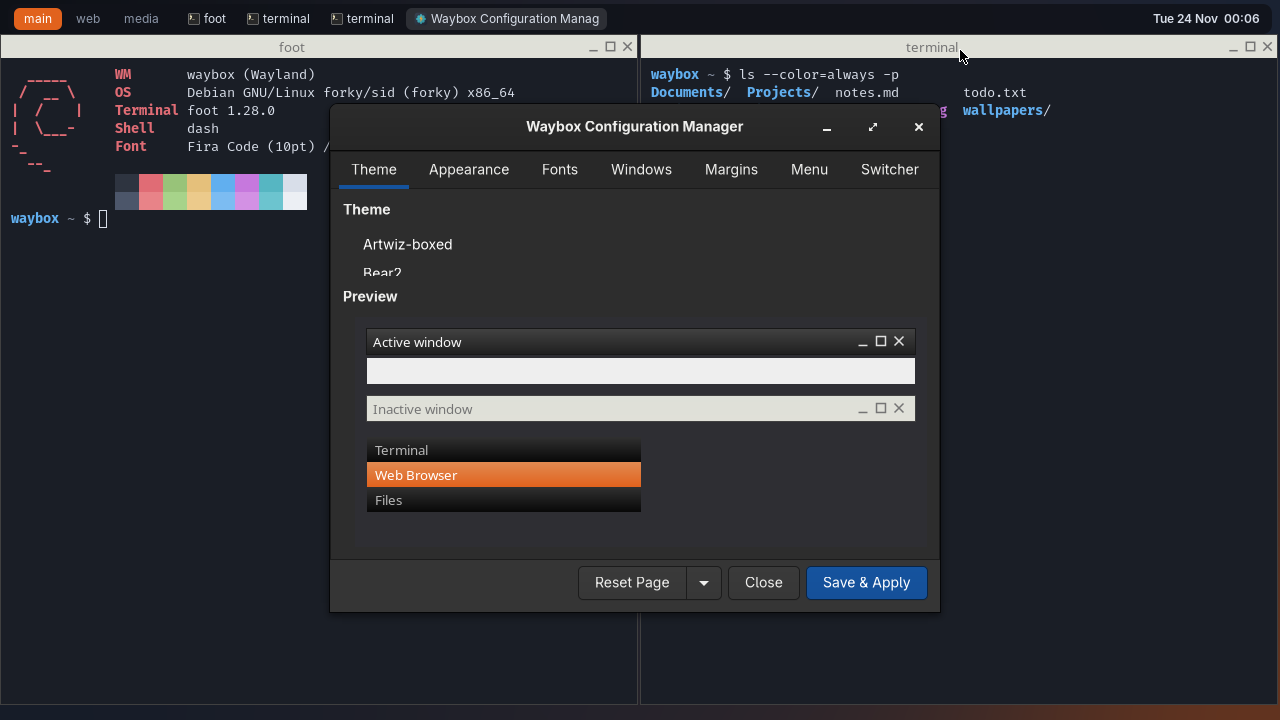
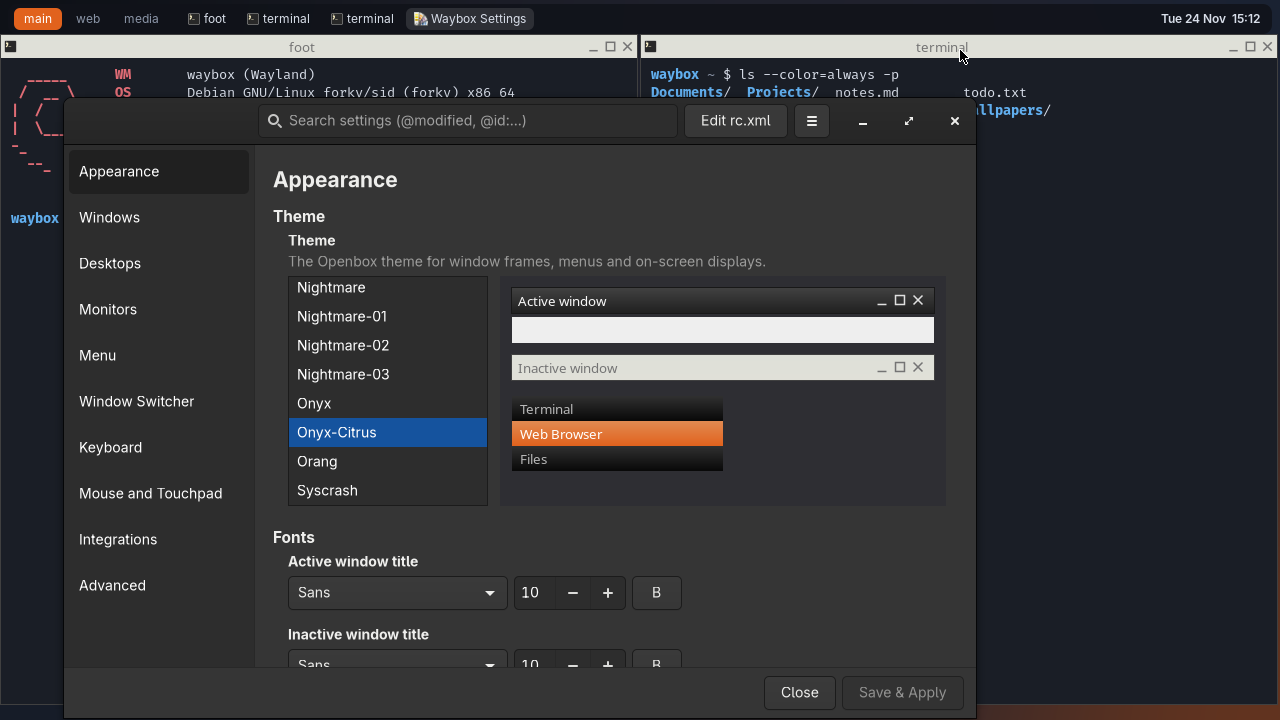
docs: re-record the tour and screenshots for the new wbconf
The tour GIF and the stills show wbconf's new settings list, and the
tour now ends by typing a search ("night" finds wlsunset, a program to
start with the session); a fourth still, wbconf-search.png, is in the
README.

The recorder (tools/record-tour.py):
- runs a private D-Bus session: on the recording user's bus, wbconf
  (a GtkApplication) handed off to their open wbconf instead of opening
  in the recording (and Waybar wants a bus);
- dark GTK windows whatever the recording desktop prefers (that came over
  the session bus);
- wbconf's schema and integration files from the source tree;
- no longer leaves a headless Waybox running when it fails to start.

wbconf fixes found while recording:
- The selected theme was brought into view by focusing it, which also
  scrolled the whole settings list away from the top; now only the theme
  list scrolls (once the window is laid out).
- "Edit rc.xml" is a text button: the icon didn't show with some icon
  themes.
- Default size 880x620 (from 980x720), so it fits smaller screens.

diff --git a/tools/record-tour.py b/tools/record-tour.py
@@ -12,8 +12,8 @@ Usage:
   tools/record-tour.py [--build build] [--theme Onyx-Citrus] [--out screenshots]
                        [--no-stills] [--keep-frames DIR]
 
-Writes <out>/tour.gif and, unless --no-stills, <out>/desktop.png, menu.png and
-alttab.png. Requires: grim, wtype, wlrctl, swaybg, waybar, foot, dash,
+Writes <out>/tour.gif and, unless --no-stills, <out>/desktop.png, menu.png,
+alttab.png and wbconf-search.png. Requires: grim, wtype, wlrctl, swaybg, waybar, foot, dash,
 fastfetch, magick (ImageMagick 7), gifsicle, and a waybox build (wbconf
 optional). Nothing from the real system is shown: no process lists, and
 only a made-up home directory. Fonts: Inter (captions, Waybar) and Fira Code (terminals), with
@@ -211,12 +211,31 @@ class Session:
                             f"{esc}[38;2;139;149;167m~{esc}[0m $ ",
                         TERMINAL="foot --title=terminal",
                         WLR_BACKENDS="headless", WLR_RENDERER="pixman",
-                        WLR_HEADLESS_OUTPUTS="1", GSK_RENDERER="cairo")
+                        WLR_HEADLESS_OUTPUTS="1", GSK_RENDERER="cairo",
+
+                        # Dark GTK windows, whatever the recording desktop
+                        # prefers (that comes over the session bus).
+                        GTK_THEME="Adwaita:dark",
+                        # wbconf's settings schema and integration files,
+                        # from the source tree.
+                        WBCONF_SCHEMA_DIR=os.path.join(REPO, "data", "wbconf"),
+                        XDG_DATA_DIRS=os.path.join(root, "share") + ":" +
+                            (os.environ.get("XDG_DATA_DIRS") or "/usr/local/share:/usr/share"))
+        os.makedirs(os.path.join(root, "share", "waybox"), exist_ok=True)
+        os.symlink(os.path.join(REPO, "data", "integrations"),
+                   os.path.join(root, "share", "waybox", "integrations"))
         # Recording from inside a Waybox session: don't inherit its config
         # paths (they would win over ours) or its displays.
         for var in ("WAYLAND_DISPLAY", "DISPLAY", "WB_RC_XML", "WB_MENU_XML",
                     "WB_ICON_THEME"):
             self.env.pop(var, None)
+        # A private session bus, not the user's: a GtkApplication such as
+        # wbconf would hand off to the user's running copy instead of
+        # opening here (and Waybar wants a bus).
+        self.bus = subprocess.Popen(["dbus-daemon", "--session", "--nofork",
+                                     "--print-address=1"], stdout=subprocess.PIPE,
+                                    text=True)
+        self.env["DBUS_SESSION_BUS_ADDRESS"] = self.bus.stdout.readline().strip()
         self.log = open(os.path.join(root, "waybox.log"), "w")
         # Started in the made-up home, so terminals open there.
         self.proc = subprocess.Popen([waybox, "--debug"], env=self.env,
@@ -230,6 +249,13 @@ class Session:
                 self.env["WAYLAND_DISPLAY"] = socks[0]
                 break
         else:
+            # Don't leave it running (its runtime directory is about to go).
+            self.bus.terminate()
+            self.proc.terminate()
+            try:
+                self.proc.wait(timeout=5)
+            except subprocess.TimeoutExpired:
+                self.proc.kill()
             sys.exit("waybox did not create a Wayland socket; see "
                      + os.path.join(root, "waybox.log"))
         self.children = []
@@ -317,6 +343,7 @@ class Session:
             self.proc.wait(10)
         except subprocess.TimeoutExpired:
             self.proc.kill()
+        self.bus.terminate()
         self.log.close()
 
 
@@ -391,15 +418,21 @@ def tour(s, wbconf, stills_dir):
     time.sleep(1.2)
 
     if wbconf:
-        s.step("wbconf: settings with a live theme preview", 0.2)
+        s.step("wbconf: every setting in one list, with a live theme preview", 0.2)
         s.spawn(wbconf)
         for _ in range(40):
-            if "Waybox Configuration" in s.logtext():
+            if "org.waybox.wbconf" in s.logtext():  # mapped (wb-geom)
                 break
             time.sleep(0.2)
         time.sleep(3.0)
     if stills_dir:
         s.still(os.path.join(stills_dir, "desktop.png"))
+    if wbconf:
+        s.step("Type to search: settings, and programs to start with the session", 0.3)
+        s.type("night")
+        time.sleep(2.4)
+        if stills_dir:
+            s.still(os.path.join(stills_dir, "wbconf-search.png"))
     s.step("", 0.2)
 
 
@@ -544,7 +577,7 @@ def main():
         encode(s.frames, gif, accent, wall, root)
         print(f"wrote {gif} ({os.path.getsize(gif) // 1024} KB)")
         if stills:
-            for name in ("desktop.png", "menu.png", "alttab.png"):
+            for name in ("desktop.png", "menu.png", "alttab.png", "wbconf-search.png"):
                 src = os.path.join(stills, name)
                 if os.path.exists(src):
                     dst = os.path.join(a.out, name)

diff --git a/wbconf/settings.cpp b/wbconf/settings.cpp
@@ -36,9 +36,27 @@ void populate(Ui *ui, const wb::WayboxSettings &s, const wb::RcDocument *doc) {
 	if (sel >= 0) {
 		GtkListBoxRow *selected = gtk_list_box_get_row_at_index(ui->theme_list, sel);
 		gtk_list_box_select_row(ui->theme_list, selected);
-		/* Scroll it into view once the list is laid out (focusing a row does). */
-		g_idle_add_once([](gpointer row) { gtk_widget_grab_focus(GTK_WIDGET(row)); },
-				selected);
+		/* Scroll it into view within the theme list once laid out (not
+		 * by focusing it, which scrolled the whole settings list too). */
+		/* Retried until the window is shown and laid out (a few tries). */
+		g_object_set_data(G_OBJECT(selected), "wb-tries", GINT_TO_POINTER(0));
+		g_timeout_add(100, [](gpointer data) -> gboolean {
+			GtkWidget *row = GTK_WIDGET(data);
+			int tries = GPOINTER_TO_INT(g_object_get_data(G_OBJECT(row), "wb-tries"));
+			g_object_set_data(G_OBJECT(row), "wb-tries", GINT_TO_POINTER(tries + 1));
+			GtkWidget *sw = gtk_widget_get_ancestor(row, GTK_TYPE_SCROLLED_WINDOW);
+			GtkWidget *list = gtk_widget_get_parent(row);
+			graphene_point_t p = GRAPHENE_POINT_INIT(0, 0), out;
+			GtkAdjustment *adj = sw ? gtk_scrolled_window_get_vadjustment(
+					GTK_SCROLLED_WINDOW(sw)) : nullptr;
+			if (adj == nullptr || list == nullptr || !gtk_widget_get_mapped(row) ||
+					gtk_adjustment_get_page_size(adj) <= 0 ||
+					!gtk_widget_compute_point(row, list, &p, &out))
+				return tries < 50 ? G_SOURCE_CONTINUE : G_SOURCE_REMOVE;
+			double page = gtk_adjustment_get_page_size(adj);
+			gtk_adjustment_set_value(adj, out.y - page / 2 + gtk_widget_get_height(row) / 2.0);
+			return G_SOURCE_REMOVE;
+		}, selected);
 	}
 
 	populate_monitors(ui, s.outputs);

diff --git a/wbconf/main.cpp b/wbconf/main.cpp
@@ -208,7 +208,7 @@ gboolean on_close_request(GtkWindow *window, gpointer data) {
 void build_window(GtkApplication *app, Ui *ui) {
 	ui->window = GTK_WINDOW(gtk_application_window_new(app));
 	gtk_window_set_title(ui->window, _("Waybox Settings"));
-	gtk_window_set_default_size(ui->window, 980, 720);
+	gtk_window_set_default_size(ui->window, 880, 620);
 
 	/* An explicit header bar: GTK then owns a proper, draggable client-side
 	 * titlebar that drives compositor move/maximize correctly (GTK doesn't
@@ -237,7 +237,8 @@ void build_window(GtkApplication *app, Ui *ui) {
 	gtk_popover_set_child(GTK_POPOVER(pop), pbox);
 	gtk_menu_button_set_popover(GTK_MENU_BUTTON(menu), pop);
 	gtk_header_bar_pack_end(GTK_HEADER_BAR(header), menu);
-	GtkWidget *open_rc = gtk_button_new_from_icon_name("document-edit-symbolic");
+	/* Text, not an icon: clearer, and not at the mercy of icon themes. */
+	GtkWidget *open_rc = gtk_button_new_with_label(_("Edit rc.xml"));
 	gtk_widget_set_tooltip_text(open_rc, _("Open rc.xml in a text editor"));
 	g_signal_connect(open_rc, "clicked", G_CALLBACK(on_open_rc), ui);
 	gtk_header_bar_pack_end(GTK_HEADER_BAR(header), open_rc);

diff --git a/README.md b/README.md
@@ -186,6 +186,8 @@ headless Waybox, drives it with `wlrctl` and `wtype`, and captures it with
 |---|---|
 | ![The root menu, opened by right-clicking the desktop](screenshots/menu.png) | ![The Alt+Tab switcher](screenshots/alttab.png) |
 
+![wbconf searching its settings for "night": wlsunset, to start with the session](screenshots/wbconf-search.png)
+
 ## Companion programs
 
 Like Openbox, Waybox leaves most desktop functions to separate programs.
